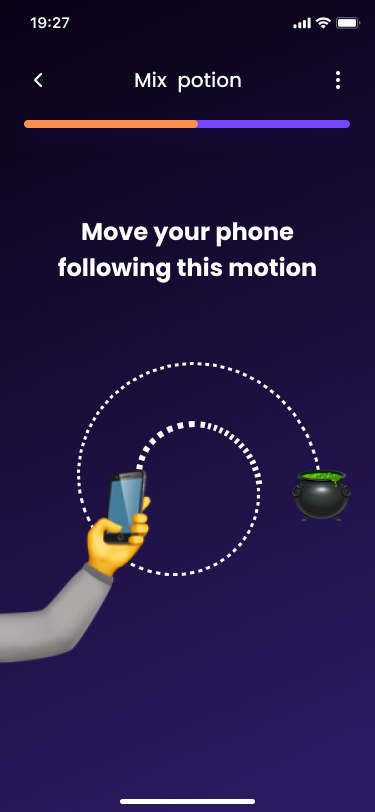
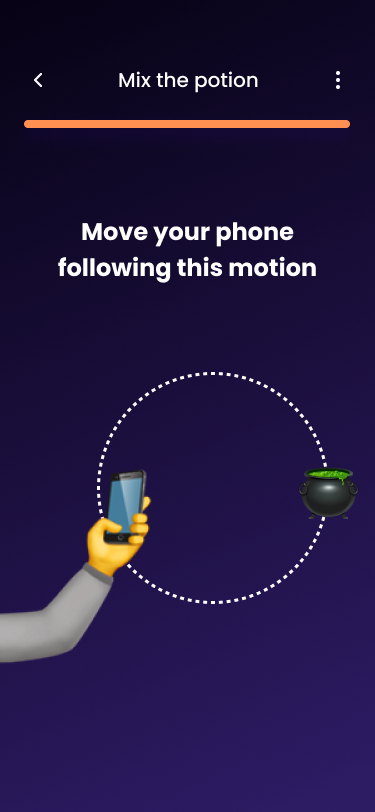
add splasho and tweak movements

diff --git a/src/screens/spice/SpiceStepTwo.tsx b/src/screens/spice/SpiceStepTwo.tsx
@@ -9,7 +9,7 @@ import {
 } from "../../motionrecog/motion_recognition";
 import { Subscription } from "expo-sensors/build/Pedometer";
 import { DeviceMotion, DeviceMotionMeasurement } from "expo-sensors";
-import { HeaderBack } from '../../components/HeaderBack'
+import { HeaderBack } from "../../components/HeaderBack";
 
 export function SpiceStepTwo() {
   const { navigate } = useNavigation<UseNavigation<"SpellStepTwo">>();
@@ -38,7 +38,7 @@ export function SpiceStepTwo() {
       i.current = 0;
       let res = detect_figure(motionData.current);
       for (const movement of res) {
-        if (movement == Movement.circle) {
+        if (movement == Movement.line_x) {
           if (listenerRef.current.length > 0) {
             listenerRef.current[0].remove();
           }
@@ -78,10 +78,9 @@ export function SpiceStepTwo() {
 
   return (
     <View style={styles.screen}>
-
       {/* Back button */}
 
-      <HeaderBack onPress={() => navigate('Map')} />
+      <HeaderBack onPress={() => navigate("Map")} />
 
       {/* Fullscreen image */}
 
@@ -103,5 +102,5 @@ const styles = StyleSheet.create({
     objectFit: "cover",
     width: "100%",
     height: "100%",
-  }
+  },
 });
